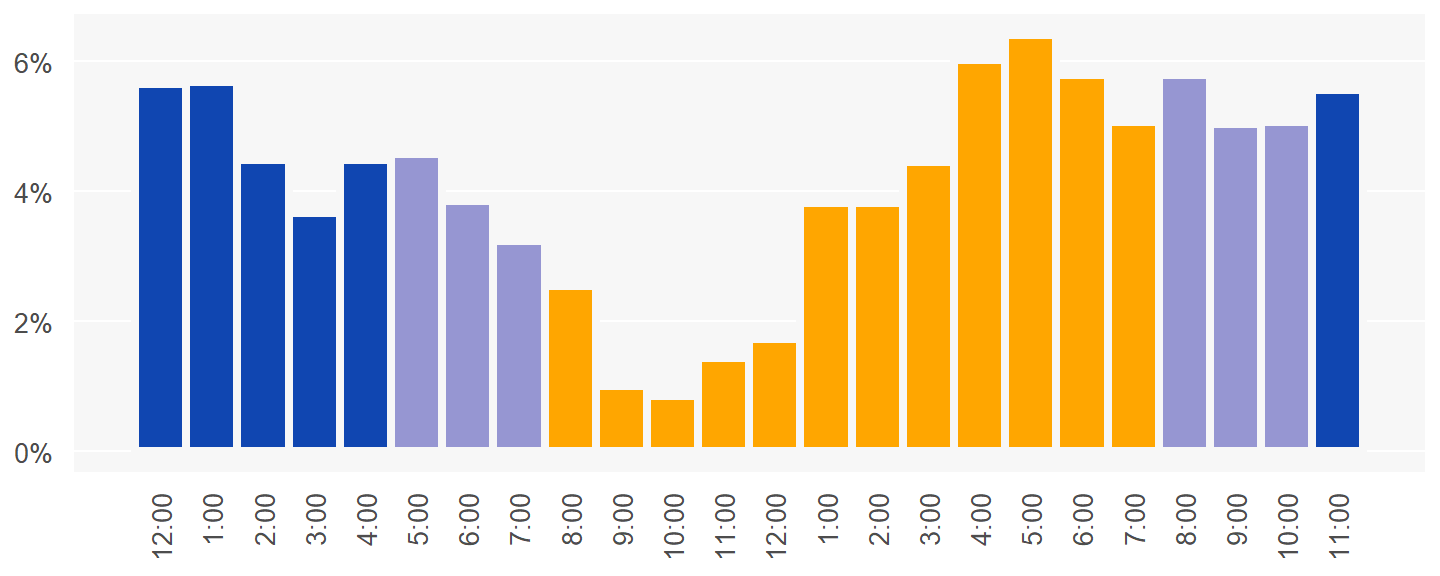
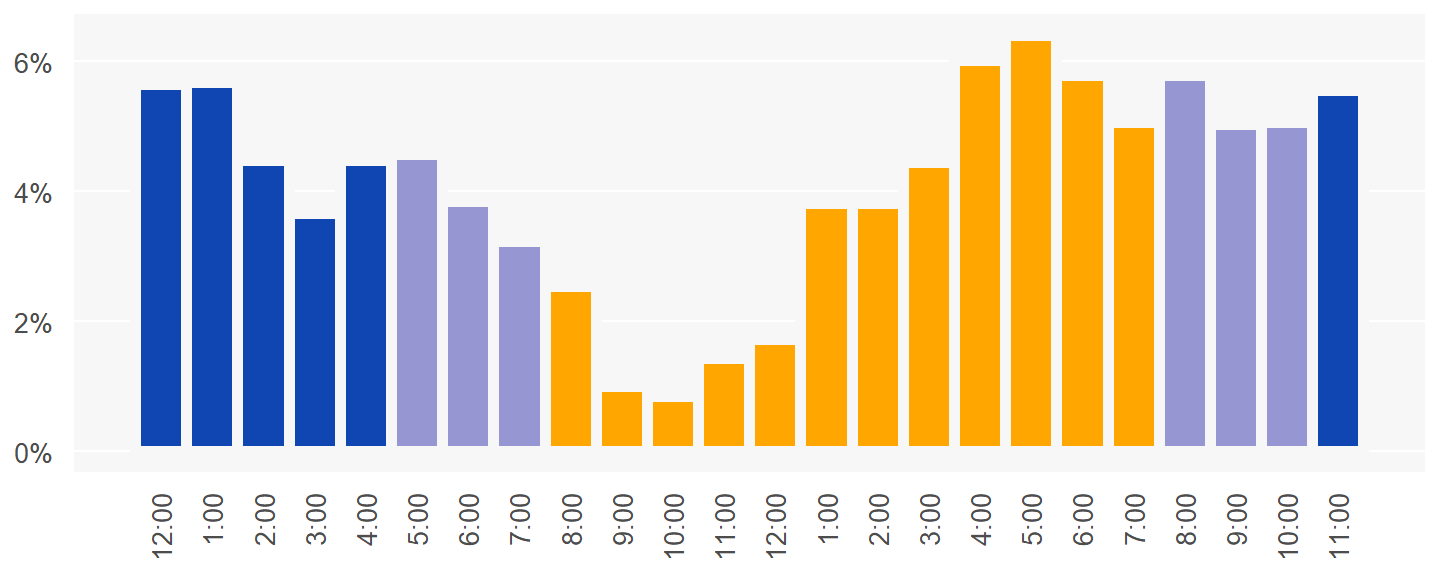
Add files via upload

diff --git a/docs/posts/2022-11-13-elon/index.html b/docs/posts/2022-11-13-elon/index.html
@@ -2520,7 +2520,7 @@ Show code
 </summary>
 <div class="sourceCode">
 <pre class="sourceCode r"><code class="sourceCode r"><span><span class='fu'><a href='https://ggplot2.tidyverse.org/reference/ggplot.html'>ggplot</a></span><span class='op'>(</span><span class='va'>df</span>, <span class='fu'><a href='https://ggplot2.tidyverse.org/reference/aes.html'>aes</a></span><span class='op'>(</span>x <span class='op'>=</span> <span class='va'>hour</span><span class='op'>)</span><span class='op'>)</span> <span class='op'>+</span></span>
-<span>  <span class='fu'><a href='https://ggplot2.tidyverse.org/reference/geom_histogram.html'>geom_histogram</a></span><span class='op'>(</span><span class='fu'><a href='https://ggplot2.tidyverse.org/reference/aes.html'>aes</a></span><span class='op'>(</span>y <span class='op'>=</span> <span class='va'>..density..</span><span class='op'>)</span>, binwidth <span class='op'>=</span> <span class='fl'>1</span>, fill <span class='op'>=</span> <span class='st'>"#1046b1"</span>, color <span class='op'>=</span> <span class='st'>"#89c8e1"</span>, size <span class='op'>=</span> <span class='fl'>1.5</span><span class='op'>)</span> <span class='op'>+</span> </span>
+<span>  <span class='fu'><a href='https://ggplot2.tidyverse.org/reference/geom_histogram.html'>geom_histogram</a></span><span class='op'>(</span><span class='fu'><a href='https://ggplot2.tidyverse.org/reference/aes.html'>aes</a></span><span class='op'>(</span>y <span class='op'>=</span> <span class='va'>..density..</span><span class='op'>)</span>, binwidth <span class='op'>=</span> <span class='fl'>1</span>, fill <span class='op'>=</span> <span class='st'>"#1046b1"</span>, color <span class='op'>=</span> <span class='st'>"gray97"</span>, size <span class='op'>=</span> <span class='fl'>2</span><span class='op'>)</span> <span class='op'>+</span> </span>
 <span>  <span class='fu'><a href='https://ggplot2.tidyverse.org/reference/scale_continuous.html'>scale_x_continuous</a></span><span class='op'>(</span>breaks <span class='op'>=</span> <span class='fl'>0</span><span class='op'>:</span><span class='fl'>23</span><span class='op'>)</span> <span class='op'>+</span> </span>
 <span>  <span class='fu'><a href='https://ggplot2.tidyverse.org/reference/scale_continuous.html'>scale_y_continuous</a></span><span class='op'>(</span>labels <span class='op'>=</span> <span class='kw'>function</span><span class='op'>(</span><span class='va'>x</span><span class='op'>)</span> <span class='fu'><a href='https://rdrr.io/r/base/paste.html'>paste0</a></span><span class='op'>(</span><span class='fl'>100</span> <span class='op'>*</span> <span class='va'>x</span>, <span class='st'>"%"</span><span class='op'>)</span><span class='op'>)</span> <span class='op'>+</span> </span>
 <span>  <span class='fu'><a href='https://ggplot2.tidyverse.org/reference/theme.html'>theme</a></span><span class='op'>(</span>axis.title <span class='op'>=</span> <span class='fu'><a href='https://ggplot2.tidyverse.org/reference/element.html'>element_blank</a></span><span class='op'>(</span><span class='op'>)</span>,</span>
@@ -2546,7 +2546,7 @@ Show code
 <span>               <span class='fu'><a href='https://rdrr.io/r/base/rep.html'>rep</a></span><span class='op'>(</span><span class='st'>"#1046b1"</span>, <span class='fl'>1</span><span class='op'>)</span><span class='op'>)</span>  <span class='co'># 11pm</span></span>
 <span></span>
 <span><span class='fu'><a href='https://ggplot2.tidyverse.org/reference/ggplot.html'>ggplot</a></span><span class='op'>(</span><span class='va'>df</span>, <span class='fu'><a href='https://ggplot2.tidyverse.org/reference/aes.html'>aes</a></span><span class='op'>(</span>x <span class='op'>=</span> <span class='va'>hour</span><span class='op'>)</span><span class='op'>)</span> <span class='op'>+</span></span>
-<span>  <span class='fu'><a href='https://ggplot2.tidyverse.org/reference/geom_histogram.html'>geom_histogram</a></span><span class='op'>(</span><span class='fu'><a href='https://ggplot2.tidyverse.org/reference/aes.html'>aes</a></span><span class='op'>(</span>y <span class='op'>=</span> <span class='va'>..density..</span><span class='op'>)</span>, binwidth <span class='op'>=</span> <span class='fl'>1</span>, fill <span class='op'>=</span> <span class='va'>daycolors</span>, color <span class='op'>=</span> <span class='st'>"gray97"</span>, size <span class='op'>=</span> <span class='fl'>1.5</span><span class='op'>)</span> <span class='op'>+</span> </span>
+<span>  <span class='fu'><a href='https://ggplot2.tidyverse.org/reference/geom_histogram.html'>geom_histogram</a></span><span class='op'>(</span><span class='fu'><a href='https://ggplot2.tidyverse.org/reference/aes.html'>aes</a></span><span class='op'>(</span>y <span class='op'>=</span> <span class='va'>..density..</span><span class='op'>)</span>, binwidth <span class='op'>=</span> <span class='fl'>1</span>, fill <span class='op'>=</span> <span class='va'>daycolors</span>, color <span class='op'>=</span> <span class='st'>"gray97"</span>, size <span class='op'>=</span> <span class='fl'>2</span><span class='op'>)</span> <span class='op'>+</span> </span>
 <span>  <span class='fu'><a href='https://ggplot2.tidyverse.org/reference/scale_continuous.html'>scale_x_continuous</a></span><span class='op'>(</span>breaks <span class='op'>=</span> <span class='fl'>0</span><span class='op'>:</span><span class='fl'>23</span>, label <span class='op'>=</span> <span class='fu'><a href='https://rdrr.io/r/base/paste.html'>paste0</a></span><span class='op'>(</span><span class='fu'><a href='https://rdrr.io/r/base/c.html'>c</a></span><span class='op'>(</span><span class='fl'>12</span>, <span class='fl'>1</span><span class='op'>:</span><span class='fl'>12</span>, <span class='fl'>1</span><span class='op'>:</span><span class='fl'>11</span><span class='op'>)</span>, <span class='st'>":00"</span><span class='op'>)</span><span class='op'>)</span> <span class='op'>+</span> </span>
 <span>  <span class='fu'><a href='https://ggplot2.tidyverse.org/reference/scale_continuous.html'>scale_y_continuous</a></span><span class='op'>(</span>labels <span class='op'>=</span> <span class='kw'>function</span><span class='op'>(</span><span class='va'>x</span><span class='op'>)</span> <span class='fu'><a href='https://rdrr.io/r/base/paste.html'>paste0</a></span><span class='op'>(</span><span class='fl'>100</span> <span class='op'>*</span> <span class='va'>x</span>, <span class='st'>"%"</span><span class='op'>)</span><span class='op'>)</span> <span class='op'>+</span> </span>
 <span>  <span class='fu'><a href='https://ggplot2.tidyverse.org/reference/scale_manual.html'>scale_fill_manual</a></span><span class='op'>(</span>values <span class='op'>=</span> <span class='fu'><a href='https://rdrr.io/r/base/c.html'>c</a></span><span class='op'>(</span><span class='op'>)</span><span class='op'>)</span> <span class='op'>+</span> </span>
